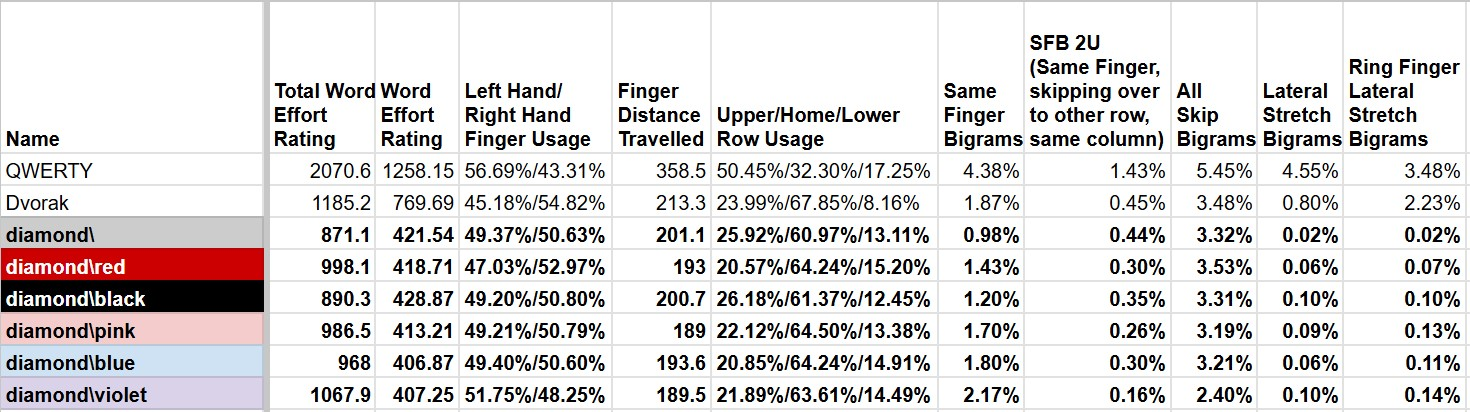
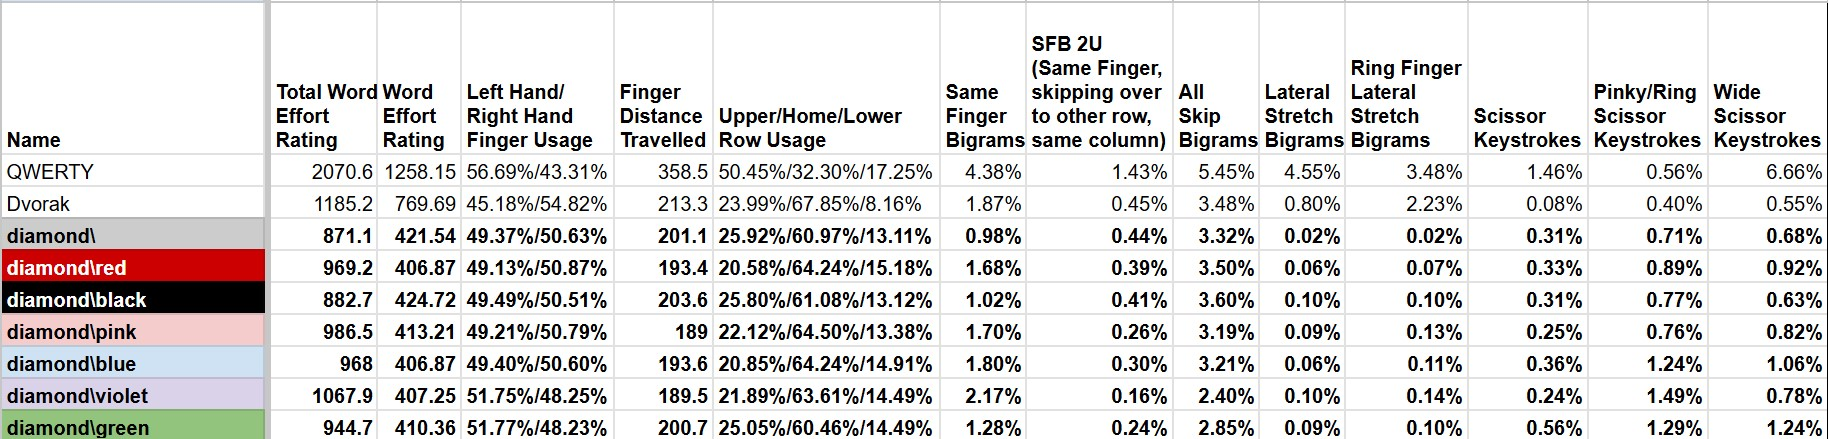
added diamond\green and updated diamond\red and diamond\black layouts, updated related images and files

diff --git a/README.md b/README.md
@@ -4,13 +4,14 @@ diamond\ (read as diamond backslash) is a mirroring keyboard layout.
 
 Currently only works by using a kbd file with the program Kanata, the kanata.kbd file is located in the proof of concept folder. Please read the file as there are bugs listed in it.
 
-There are currently six diamond\ mirroring keyboard layouts:
+There are currently seven diamond\ mirroring keyboard layouts:
 - diamond\
 - diamond\red
 - diamond\black
 - diamond\pink
 - diamond\blue
 - diamond\violet
+- diamond\green
 
 The kanata.kbd file is to be used with Kanata which was created by [jtroo, link to Kanata repo here: https://github.com/jtroo/kanata](https://github.com/jtroo/kanata)
 
@@ -259,7 +260,7 @@ Here is diamond\black
 
 It is very similar to diamond\ but takes the diamond backslash pattern from diamond\red to reduce the right finger outer column pinky usage. So if you liked diamond\ but didn't like using your right pinky finger for pressing the X and V keys then I recommend diamond\black.
 
-The kbd file for diamond\black is inside the proof of concepts folder under diamond_backslash_red
+The kbd file for diamond\black is inside the proof of concepts folder under diamond_backslash_black
 
 ## diamond\blue mirroring keyboard layout
 
@@ -283,11 +284,11 @@ Here is diamond\pink
 
 It is like an old iteration of diamond\\red but better which is why I then had to go back and change diamond\\red to be more similar to diamond\\ which then also changed diamond\\blue.
 
-The kbd file for diamond\pink is inside the proof of concepts folder under diamond_backslash_blue
+The kbd file for diamond\pink is inside the proof of concepts folder under diamond_backslash_pink
 
 ## diamond\violet mirroring keyboard layout
 
-I have added a new keyboard layout alongside diamond\\, diamond\\red, diamond\\black, diamond\\blue and diamond\\violet. 
+I have added a new keyboard layout alongside diamond\\, diamond\\red, diamond\\black, diamond\\pink and diamond\\blue. 
 
 Here is diamond\violet
 
@@ -295,7 +296,19 @@ Here is diamond\violet
 
 This one extends on an old iteration of diamond\\red by trying to decrease all types of Skip Bigrams as much as possible with the downside of Same Finger Bigrams and Redirect rates increasing.
 
-The kbd file for diamond\violet is inside the proof of concepts folder under diamond_backslash_blue
+The kbd file for diamond\violet is inside the proof of concepts folder under diamond_backslash_violet
+
+## diamond\green mirroring keyboard layout
+
+I have added a new keyboard layout alongside diamond\\, diamond\\red, diamond\\black, diamond\\pink, diamond\\blue and diamond\\violet. 
+
+Here is diamond\green
+
+![image of diamond\\violet keyboard layout](https://raw.githubusercontent.com/r134x7/diamond_backslash/refs/heads/main/images/diamond_backslash_green.png)
+
+This one is like diamond\violet but for those that prefer three vowels on the home row and low same finger bigrams like diamond\\ and diamond\\black.
+
+The kbd file for diamond\green is inside the proof of concepts folder under diamond_backslash_green
 
 ## keyboard layout stats for all diamond\ mirroring keyboard layouts on row-staggered keyboards
 

diff --git a/proof_of_concepts/diamond_backslash_green/description.md b/proof_of_concepts/diamond_backslash_green/description.md
@@ -1,0 +1,25 @@
+# diamond\green mirroring keyboard layout kbd file
+
+The kanata.kbd file is being used as a proof of concept to demonstrate
+how the diamond\green mirroring keyboard layout works.
+
+More details including bugs are in the kanata.kbd file.
+
+The kanata.kbd file is used with Kanata, see Kanata repo source for how Kanata works: https://github.com/jtroo/kanata
+
+Source of images below: [https://cyanophage.github.io/](https://cyanophage.github.io/)
+
+## layout image
+
+![image of diamond\\green keyboard layout](https://raw.githubusercontent.com/r134x7/diamond_backslash/refs/heads/main/images/diamond_backslash_green.png)
+
+## heatmap
+
+![image of diamond\\green keyboard layout heatmap](https://raw.githubusercontent.com/r134x7/diamond_backslash/refs/heads/main/images/diamond_backslash_green_heatmap.jpg)
+
+## finger bigram frequency
+
+Note: 1 to 4 are the left hand fingers from pinky to index for each column they use on the keyboard, 7 to 10 are the right hand fingers from index to pinky for each column they use on the keyboard.
+
+The following is meant to be read from the rows as they add up to 100%
+![image of diamond\\green keyboard layout bigram frequency](https://raw.githubusercontent.com/r134x7/diamond_backslash/refs/heads/main/images/diamond_backslash_green_bigram_frequency.jpg)
